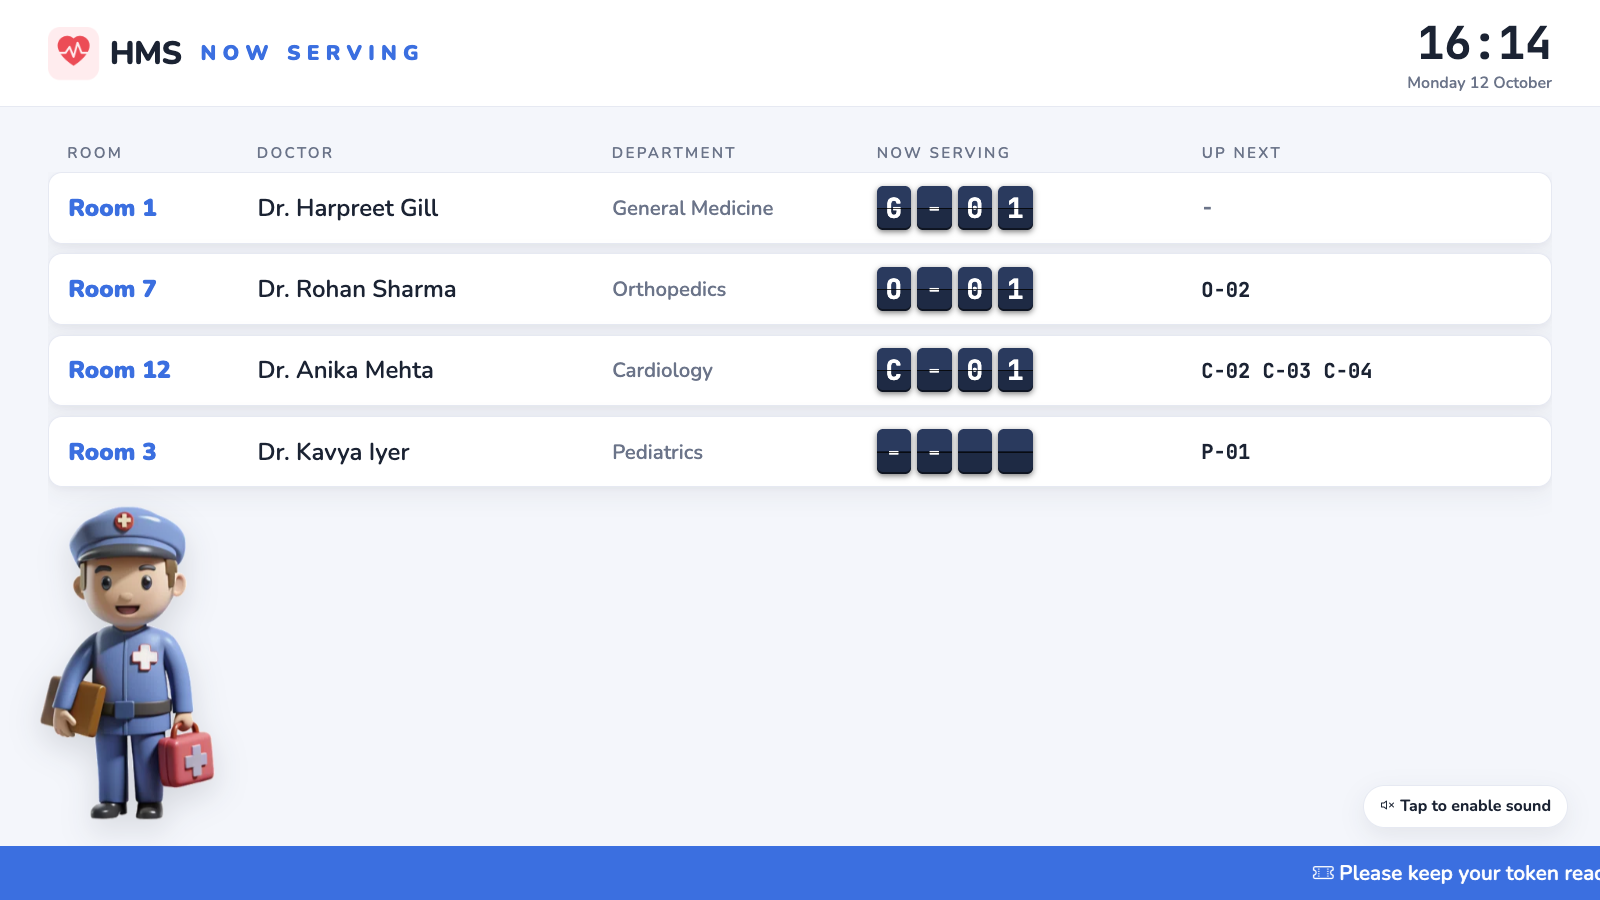
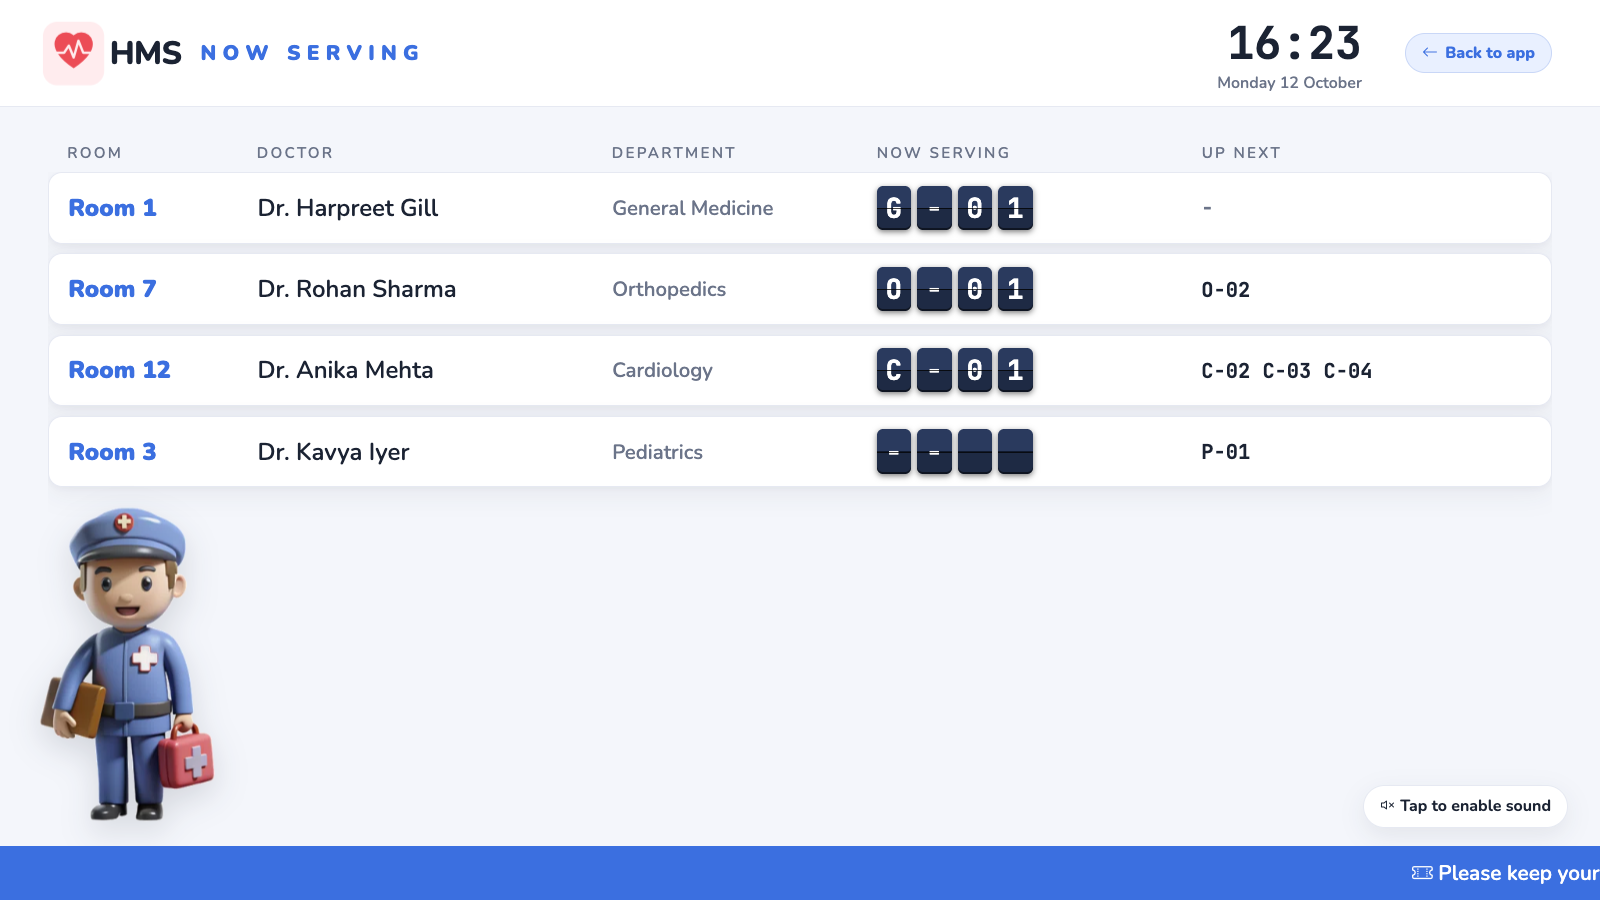
add a back to app button on the lobby screen

diff --git a/templates/lobby.html b/templates/lobby.html
@@ -31,6 +31,14 @@
         .brand .heart { color: var(--red); background: #ffecee; border-radius: 12px; padding: 0.15em 0.3em; animation: beat 1.6s ease-in-out infinite; }
         .title { color: var(--blue); font-weight: 900; letter-spacing: 0.3em; font-size: clamp(0.9rem, 1.4vw, 1.3rem); }
         .clock { margin-left: auto; text-align: right; }
+        .back {
+            display: inline-flex; align-items: center; gap: 0.45rem;
+            margin-left: 1.5vw; padding: 0.5rem 1rem; border-radius: 999px;
+            background: #e9f0ff; color: var(--blue); border: 1px solid #c9d7f7;
+            font: inherit; font-weight: 800; font-size: clamp(0.8rem, 1vw, 1rem);
+            text-decoration: none; cursor: pointer; transition: transform 0.2s, background-color 0.2s;
+        }
+        .back:hover { background: var(--blue); color: #fff; transform: translateX(-3px); }
         .clock .time { font-family: 'JetBrains Mono', monospace; font-size: clamp(1.4rem, 3vw, 2.8rem); }
         .clock .date { color: var(--muted); font-size: clamp(0.7rem, 1vw, 1rem); }
 
@@ -115,6 +123,7 @@
         <div class="brand"><i class="bi bi-heart-pulse-fill heart"></i> HMS</div>
         <div class="title">NOW SERVING</div>
         <div class="clock"><div class="time" id="time">--:--</div><div class="date" id="date"></div></div>
+        <a class="back" id="back" href="/"><i class="bi bi-arrow-left"></i> Back to app</a>
     </header>
 
     <main>
@@ -273,6 +282,19 @@
                 if (res.ok) render(await res.json());
             } catch (e) { /* try again next tick */ }
         }
+
+        // Go back to where we came from in the app, or to the app's home if the screen was opened on its own
+        document.getElementById('back').addEventListener('click', e => {
+            const fromApp = document.referrer && new URL(document.referrer).origin === location.origin;
+            if (fromApp && history.length > 1) {
+                e.preventDefault();
+                history.back();
+            } else if (window.opener && !window.opener.closed) {
+                e.preventDefault();
+                window.opener.focus();
+                window.close();
+            }
+        });
 
         document.getElementById('sound').addEventListener('click', e => {
             soundOn = !soundOn;
